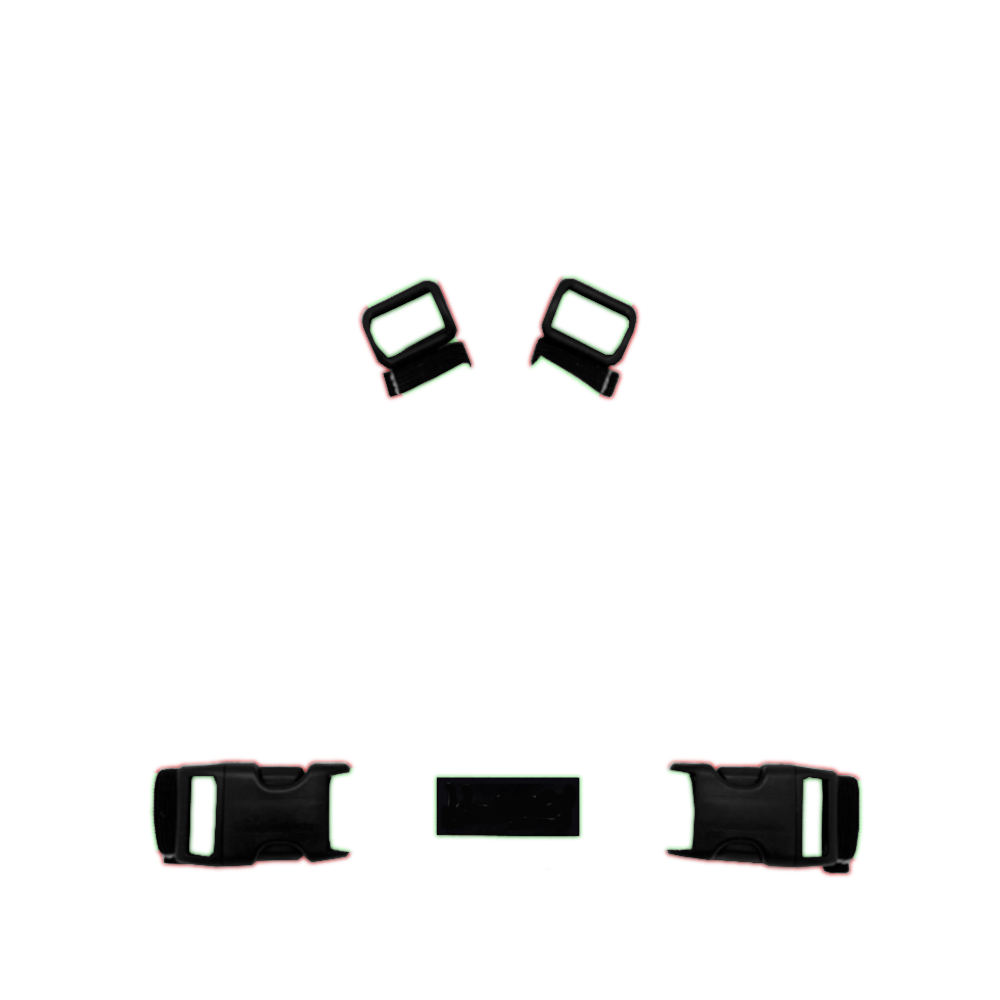
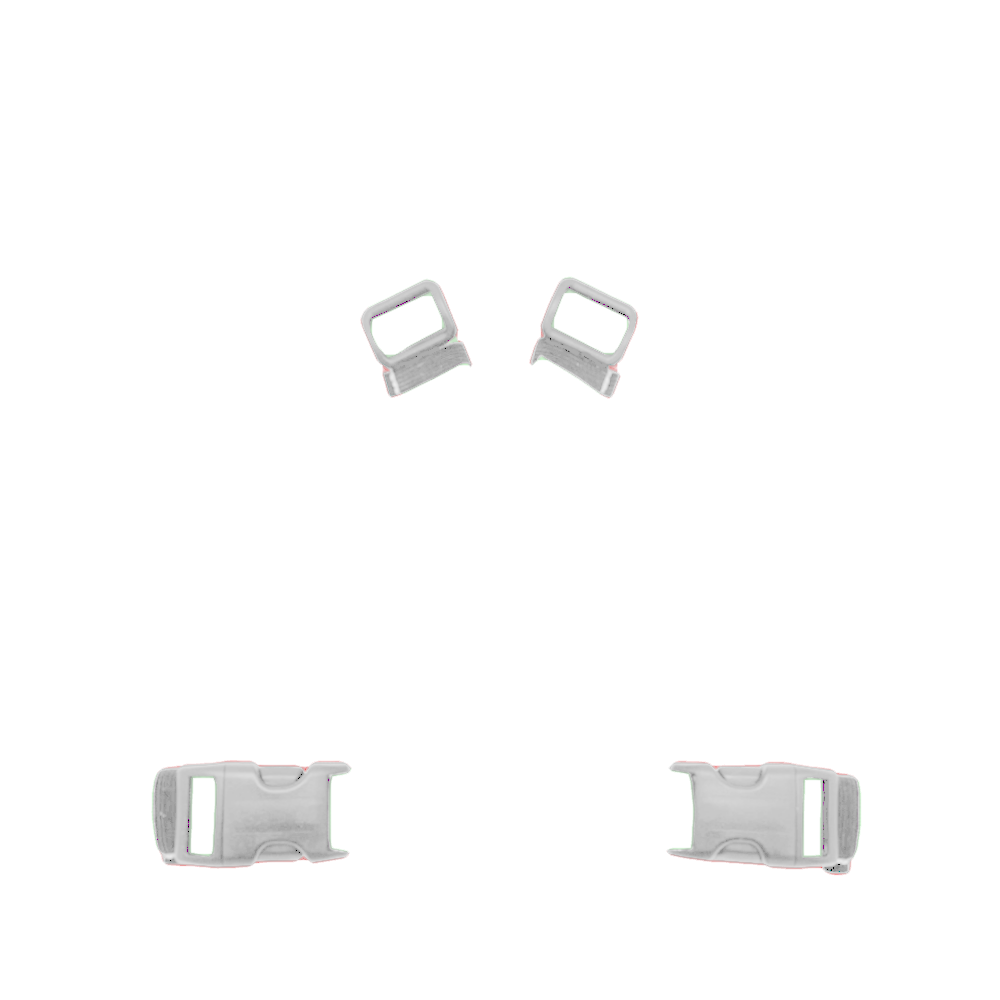
Add leather label layer, reposition variant picker, add PNG export button
Adds a fixed light-leather label layer excluded from shading, splits
Brustring/Groesse variant picker out of the block loop so it renders
right after the configurator's color options instead of near the top.
Adds a full-resolution (1000x1000) PNG export button for the preview,
since screenshots only capture the on-screen display size. Also
strengthens ring shine further and adds the Leo Blau pattern.

diff --git a/assets/geschirr-configurator.js b/assets/geschirr-configurator.js
@@ -51,12 +51,14 @@
     ];
 
     function paintRingShine(ctx, cx, cy, r, hex) {
-      const grad = ctx.createRadialGradient(cx, cy, r * 0.1, cx, cy, r);
-      grad.addColorStop(0, shadeHex(hex, 170));
-      grad.addColorStop(0.35, shadeHex(hex, 40));
-      grad.addColorStop(0.6, hex);
-      grad.addColorStop(0.85, shadeHex(hex, -70));
-      grad.addColorStop(1, shadeHex(hex, -120));
+      const grad = ctx.createRadialGradient(cx, cy, 0, cx, cy, r);
+      grad.addColorStop(0, shadeHex(hex, 255));
+      grad.addColorStop(0.18, shadeHex(hex, 120));
+      grad.addColorStop(0.32, shadeHex(hex, 10));
+      grad.addColorStop(0.5, shadeHex(hex, 160));
+      grad.addColorStop(0.68, shadeHex(hex, -60));
+      grad.addColorStop(0.86, shadeHex(hex, -140));
+      grad.addColorStop(1, shadeHex(hex, -200));
 
       ctx.save();
       ctx.beginPath();
@@ -159,7 +161,7 @@
       ctx.drawImage(maskImages.__shadingSource, 0, 0, shadingCanvas.width, shadingCanvas.height);
 
       ctx.globalCompositeOperation = 'destination-out';
-      ['metal', 'schnallen'].forEach((layer) => {
+      ['metal', 'schnallen', 'label'].forEach((layer) => {
         if (maskImages[layer]) {
           ctx.drawImage(maskImages[layer], 0, 0, shadingCanvas.width, shadingCanvas.height);
         }
@@ -171,12 +173,54 @@
     Promise.all(loadPromises).then(() => {
       paintShading();
       paintOutline();
+      paintLayer('label', '#D9BFA0', false);
       document.querySelectorAll('fieldset[data-layer]').forEach((fieldset) => {
         const layer = fieldset.dataset.layer;
         const checked = fieldset.querySelector('input:checked');
         if (checked) applyInput(layer, checked);
       });
     });
+
+    const exportButton = document.querySelector('.geschirr-configurator__export-button');
+    if (exportButton) {
+      exportButton.addEventListener('click', () => {
+        const size = 1000;
+        const out = document.createElement('canvas');
+        out.width = size;
+        out.height = size;
+        const octx = out.getContext('2d');
+
+        octx.fillStyle = '#ffffff';
+        octx.fillRect(0, 0, size, size);
+
+        if (outlineCanvas) {
+          octx.filter = 'blur(9px)';
+          octx.drawImage(outlineCanvas, 0, 0, size, size);
+          octx.filter = 'none';
+        }
+
+        ['polsterung', 'gurt', 'schnallen', 'metal', 'label'].forEach((layer) => {
+          if (canvases[layer]) octx.drawImage(canvases[layer], 0, 0, size, size);
+        });
+
+        if (shadingCanvas) {
+          octx.filter = 'brightness(1.05)';
+          octx.globalCompositeOperation = 'multiply';
+          octx.drawImage(shadingCanvas, 0, 0, size, size);
+          octx.globalCompositeOperation = 'source-over';
+          octx.filter = 'none';
+        }
+
+        out.toBlob((blob) => {
+          const url = URL.createObjectURL(blob);
+          const link = document.createElement('a');
+          link.href = url;
+          link.download = 'geschirr-vorschau.png';
+          link.click();
+          URL.revokeObjectURL(url);
+        }, 'image/png');
+      });
+    }
 
     document.addEventListener('change', (event) => {
       const input = event.target;

diff --git a/assets/geschirr-configurator.css b/assets/geschirr-configurator.css
@@ -3,6 +3,17 @@
   margin-bottom: 2rem;
 }
 
+.geschirr-configurator__export-button {
+  display: block;
+  margin: 0.75rem auto 0;
+  font-size: 0.8rem;
+  color: rgba(var(--color-foreground), 0.6);
+  background: none;
+  border: none;
+  text-decoration: underline;
+  cursor: pointer;
+}
+
 .geschirr-configurator__preview {
   position: relative;
   width: 100%;
